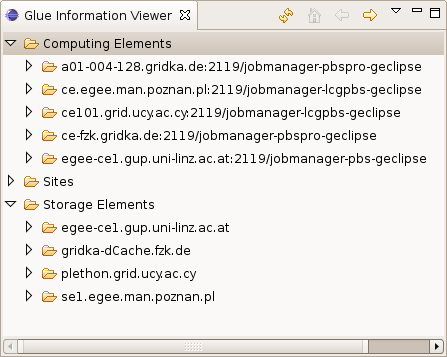
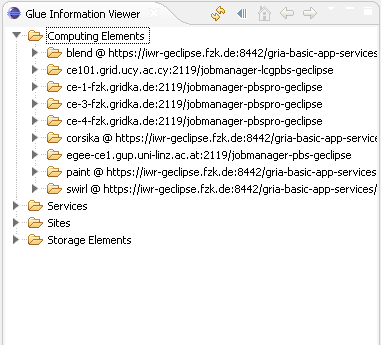
Applied patch for bug: 234356

diff --git a/doc/eu.geclipse.doc.user/html/concepts/infosystem/browsing.html b/doc/eu.geclipse.doc.user/html/concepts/infosystem/browsing.html
@@ -23,28 +23,42 @@
 
 <h1>Browsing the Info System</h1>
 <p>The Glue Information View presents the information obtained from
-the information systems of defined VO's. At this time the data 
-contained in the information view is obtained from the defined BDII services<br>
+the information systems of the existing grid projects. Each grid project has a VO. 
+When defining a VO, the user can define the services that the information system can query.
+For example, in a glite VO the user can define the bdii server that will be used 
+(e.g. ldap://iwrbdii.fzk.de:2170) and in a GRIA VO the user can define the GRIA services.
+The data contained in the information view is obtained from the defined BDII services 
+of the glite projects and from the defined GRIA services for the GRIA projects.
+<br><br>
 <img border="0" src="images/infoview.png" alt="Refresh">
 </p>
-
-<p>The VO content presented in the Project View is a summary of the information presented 
-in the Glue Information Viewer.<br>
-<img border="0" src="images/project-info.png" alt="Refresh"></p>
-
-<p>Only data for <strong>open</strong> Projects is fetched. the data sources are obtained from VO definitions. 
-(Projects are based on defined VO's and for each VO there is a defined Information System URL.)
-
-Data is refreshed on three occasions: 
-<ul><li>g-Eclipse startup;
-<li>Adding, deleting, opening or closing a project;
-<li>and by manually refreshing the information by clicking<br>
-<img border="0" src="images/refresh.png" alt="Refresh"> 
+<br>
+<p>
+The Glue Information Viewer provides filters that can constrain the information
+that is presented to the user. Currently, there are three filters available.
+<ul>
+<li> It can show information concerning all the grid middlewares </li>
+<li> It can show information only about glite middlewares</li>
+<li> It can show information only about GRIA middlewares</li>
 </ul>
+<br>
+<img border="0" src="images/filters.png" alt="Filters">
+<br>
+<p>
+The user can also choose to present only the glue elements that are filled by the
+information services.
+<img border="0" src="images/show_filled.png" alt="ShowFilled">
 </p>
-
-
-
-
+<br>
+<p>
+Data is refreshed on four occasions: 
+<ul><li>g-Eclipse startup</li>
+<li>Adding, deleting, opening or closing a project</li>
+<li>by manually refreshing the information by clicking</li>
+<li> and when the user expands "Computing", "Service", "Storage" sub-trees under the
+VO tree in the grid project view.</li>
+<br><br> 
+</ul>
+<img border="0" src="images/refresh.png" alt="Refresh">
 </body>
 </html>

diff --git a/doc/eu.geclipse.doc.user/html/concepts/siteadministration/griaSiteEditor.html b/doc/eu.geclipse.doc.user/html/concepts/siteadministration/griaSiteEditor.html
@@ -1,0 +1,39 @@
+<!DOCTYPE HTML PUBLIC "-//W3C//DTD HTML 4.0 Transitional//EN">
+
+<html>
+<head>
+<meta
+  http-equiv="Content-Type"
+  content="text/html; charset=iso-8859-1">
+<META
+  HTTP-EQUIV="Content-Style-Type"
+  CONTENT="text/css">
+<LINK
+  REL="STYLESHEET"
+  HREF="PLUGINS_ROOT/eu.geclipse.doc.user/book.css"
+  CHARSET="ISO-8859-1"
+  TYPE="text/css">
+<title>Gria Site Editor</title>
+<script
+  language="JavaScript"
+  src="PLUGINS_ROOT/org.eclipse.help/livehelp.js"> </script>
+</head>
+
+<body BGCOLOR="#ffffff">
+
+<h1>Gria Site Editor</h1>
+<p>The Gria Site Editor is there to help the administrators of a GRIA site to have
+ an easy access to the web pages that usually access in order to configure their site.
+ In order to set up a GRIA site go to File->new->Other and select 
+ g-Eclipse->Gria Site Configuration. The Gria Site Editor will then open. 
+ </p>
+<img border="0" src="images/griaSiteEditor.png" alt="Terminal" />
+<p>
+The administrator can enter the URL of the the apache and the GRIA site where he/she will
+have easy access to by using the tabs <i>Apache Web Page</i> and <i>Gria Web Page</i> respectively. 
+The user can also add additional URLs where he/she can access them by selecting the 
+tab <i>Additional Sites</i>.
+</p>
+
+</body>
+</html>
